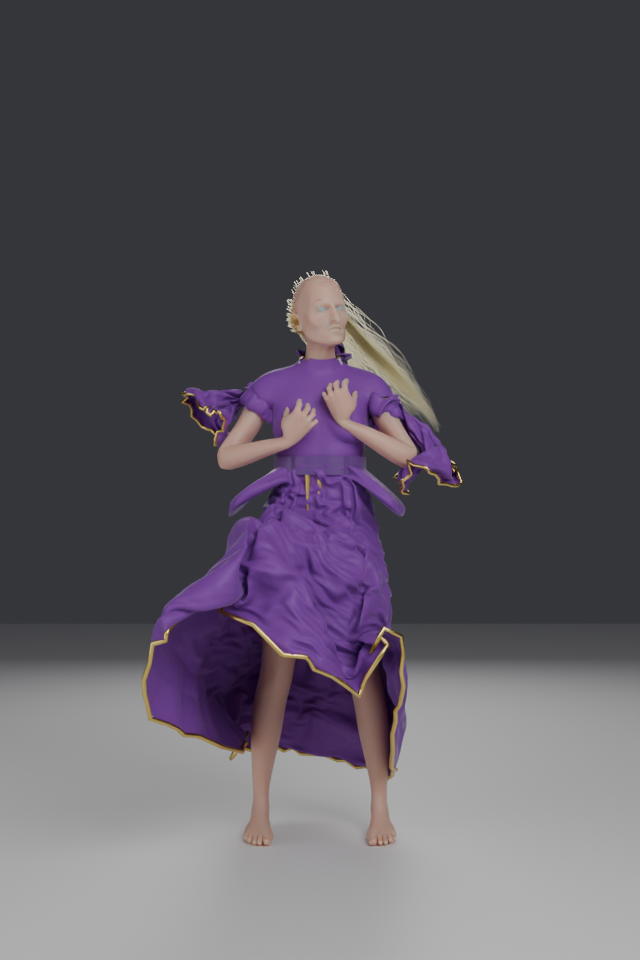
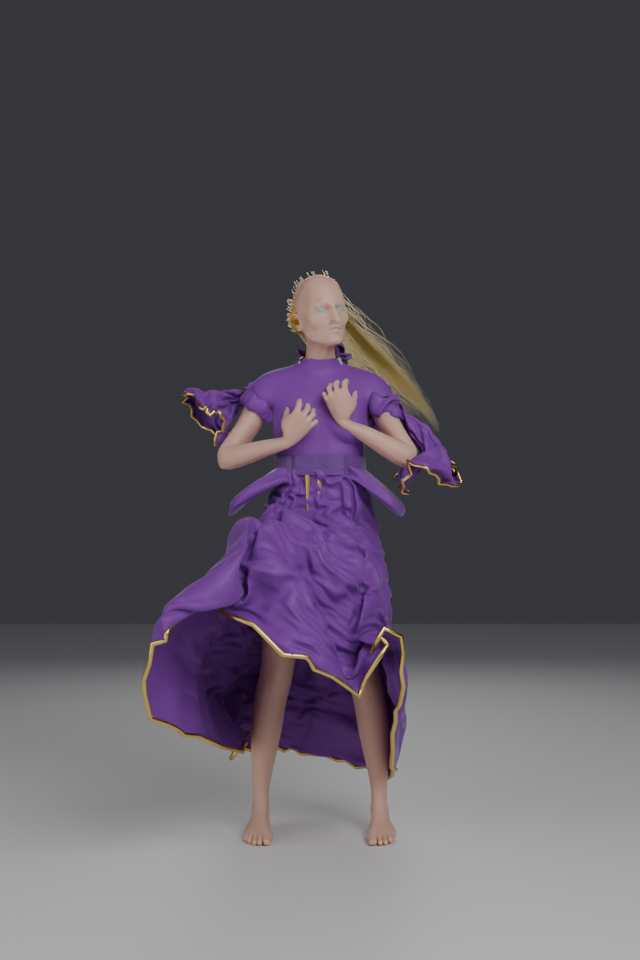
Polish part: fix pale/washed-out hair color in the combined render
- final_assembly.py: the Principled Hair BSDF read almost white/flaxen
  instead of warm blonde once rendered at full-figure distance with many
  overlapping thin strands. Darkened/resaturated the base Color
  (0.52,0.32,0.09 -> 0.40,0.19,0.035), reduced the Transmission weight
  (1.0 -> 0.55) to cut down backlit glow-through, and halved the Rim
  light (70 -> 35) that was contributing to the blowout. Hair now reads
  as a proper warm golden blonde in the full-figure render.
- Updated renders/final_{front,three,back}.png, final_sheet.png,
  final_assembly.blend. Updated PROGRESS.md.

Claude-Session: https://claude.ai/code/session_016R95HBvKNK6NQc75sprrCQ

Changed region(s): [[0.5312, 0.3125, 0.6875, 0.4375], [0.4375, 0.3125, 0.4688, 0.3438]]

diff --git a/code/final_assembly.py b/code/final_assembly.py
@@ -453,12 +453,15 @@ hmat, hnt, hout = new_material("Hair")
 hb = N(hnt, 'ShaderNodeBsdfHairPrincipled', (0, 0))
 L(hnt, hb.outputs[0], hout.inputs[0])
 hb.parametrization = 'COLOR'
-setin(hb, "Color", (0.52, 0.32, 0.09, 1))
+setin(hb, "Color", (0.40, 0.19, 0.035, 1))  # darker/more saturated amber-gold -- the thin,
+# densely-overlapping strands scatter a lot of light and read much paler than this base color
 setin(hb, "Roughness", 0.3)
 setin(hb, "Radial Roughness", 0.4)
 setin(hb, "Random Roughness", 0.2)
-setin(hb, "Random Color", 0.12)
+setin(hb, "Random Color", 0.1)
 setin(hb, "IOR", 1.55)
+if "Transmission" in hb.inputs:
+    setin(hb, "Transmission", 0.55)  # less backlit glow-through, less washed-out overall
 hc.materials.append(hmat)
 
 # ------------------------------------------------------------------ lighting + cameras
@@ -467,7 +470,7 @@ set_world((0.12, 0.12, 0.14), 0.5)
 setup_cycles(SAMPLES, 640, 960, exposure=-0.45)
 add_area("Key", (1.5, -3, 3), (0, 0, 1.1), 150, 2.5)
 add_area("Fill", (-2.5, -2, 1.5), (0, 0, 1.1), 50, 3)
-add_area("Rim", (0, 3, 2.6), (0, 0, 1.4), 70, 2.0)
+add_area("Rim", (0, 3, 2.6), (0, 0, 1.4), 35, 2.0)  # halved -- was blowing the hair out white
 cams = {"front": add_camera("F", (0, -4.2, 1.1), (0, 0, 1.1), lens=50),
         "three": add_camera("T", (2.8, -3.4, 1.4), (0, 0, 1.1), lens=50),
         "back": add_camera("B", (0, 4.2, 1.1), (0, 0, 1.1), lens=50)}

diff --git a/PROGRESS.md b/PROGRESS.md
@@ -131,9 +131,12 @@ dressed in a cloth-simulated robe (hood worn down, not up), rendered in Cycles.
    in the same pass: `final_assembly.py` had copied a leftover `bodice.hide_render = True`
    from `full_sim.py` (harmless there, since that script never renders) which was hiding the
    torso-covering piece entirely in the combined render -- removed.
-8. Remaining polish, roughly in order of impact:
-   - Hair color still trends pale/flaxen rather than a rich warm gold at full-figure viewing
-     distance — a `materials_full.py`/`final_assembly.py` Hair-BSDF color/lighting tweak.
+8. ~~Hair color~~ — done: darkened/resaturated the Principled Hair BSDF `Color`
+   (0.52,0.32,0.09 → 0.40,0.19,0.035), added a `Transmission` weight reduction (1.0 → 0.55)
+   to cut down the backlit glow-through that was washing the mass of overlapping strands out
+   toward white, and halved the Rim light (70 → 35) that was contributing to the blowout.
+   Reads as a proper warm golden blonde at full-figure distance now, in `final_assembly.py`.
+9. Remaining polish, roughly in order of impact:
    - The originally-requested standalone per-part renders (robe alone, head alone, hands
      alone) already exist individually (`materials_full.py`'s and `hair_test.py`'s renders);
      a hands-alone render is still outstanding.
